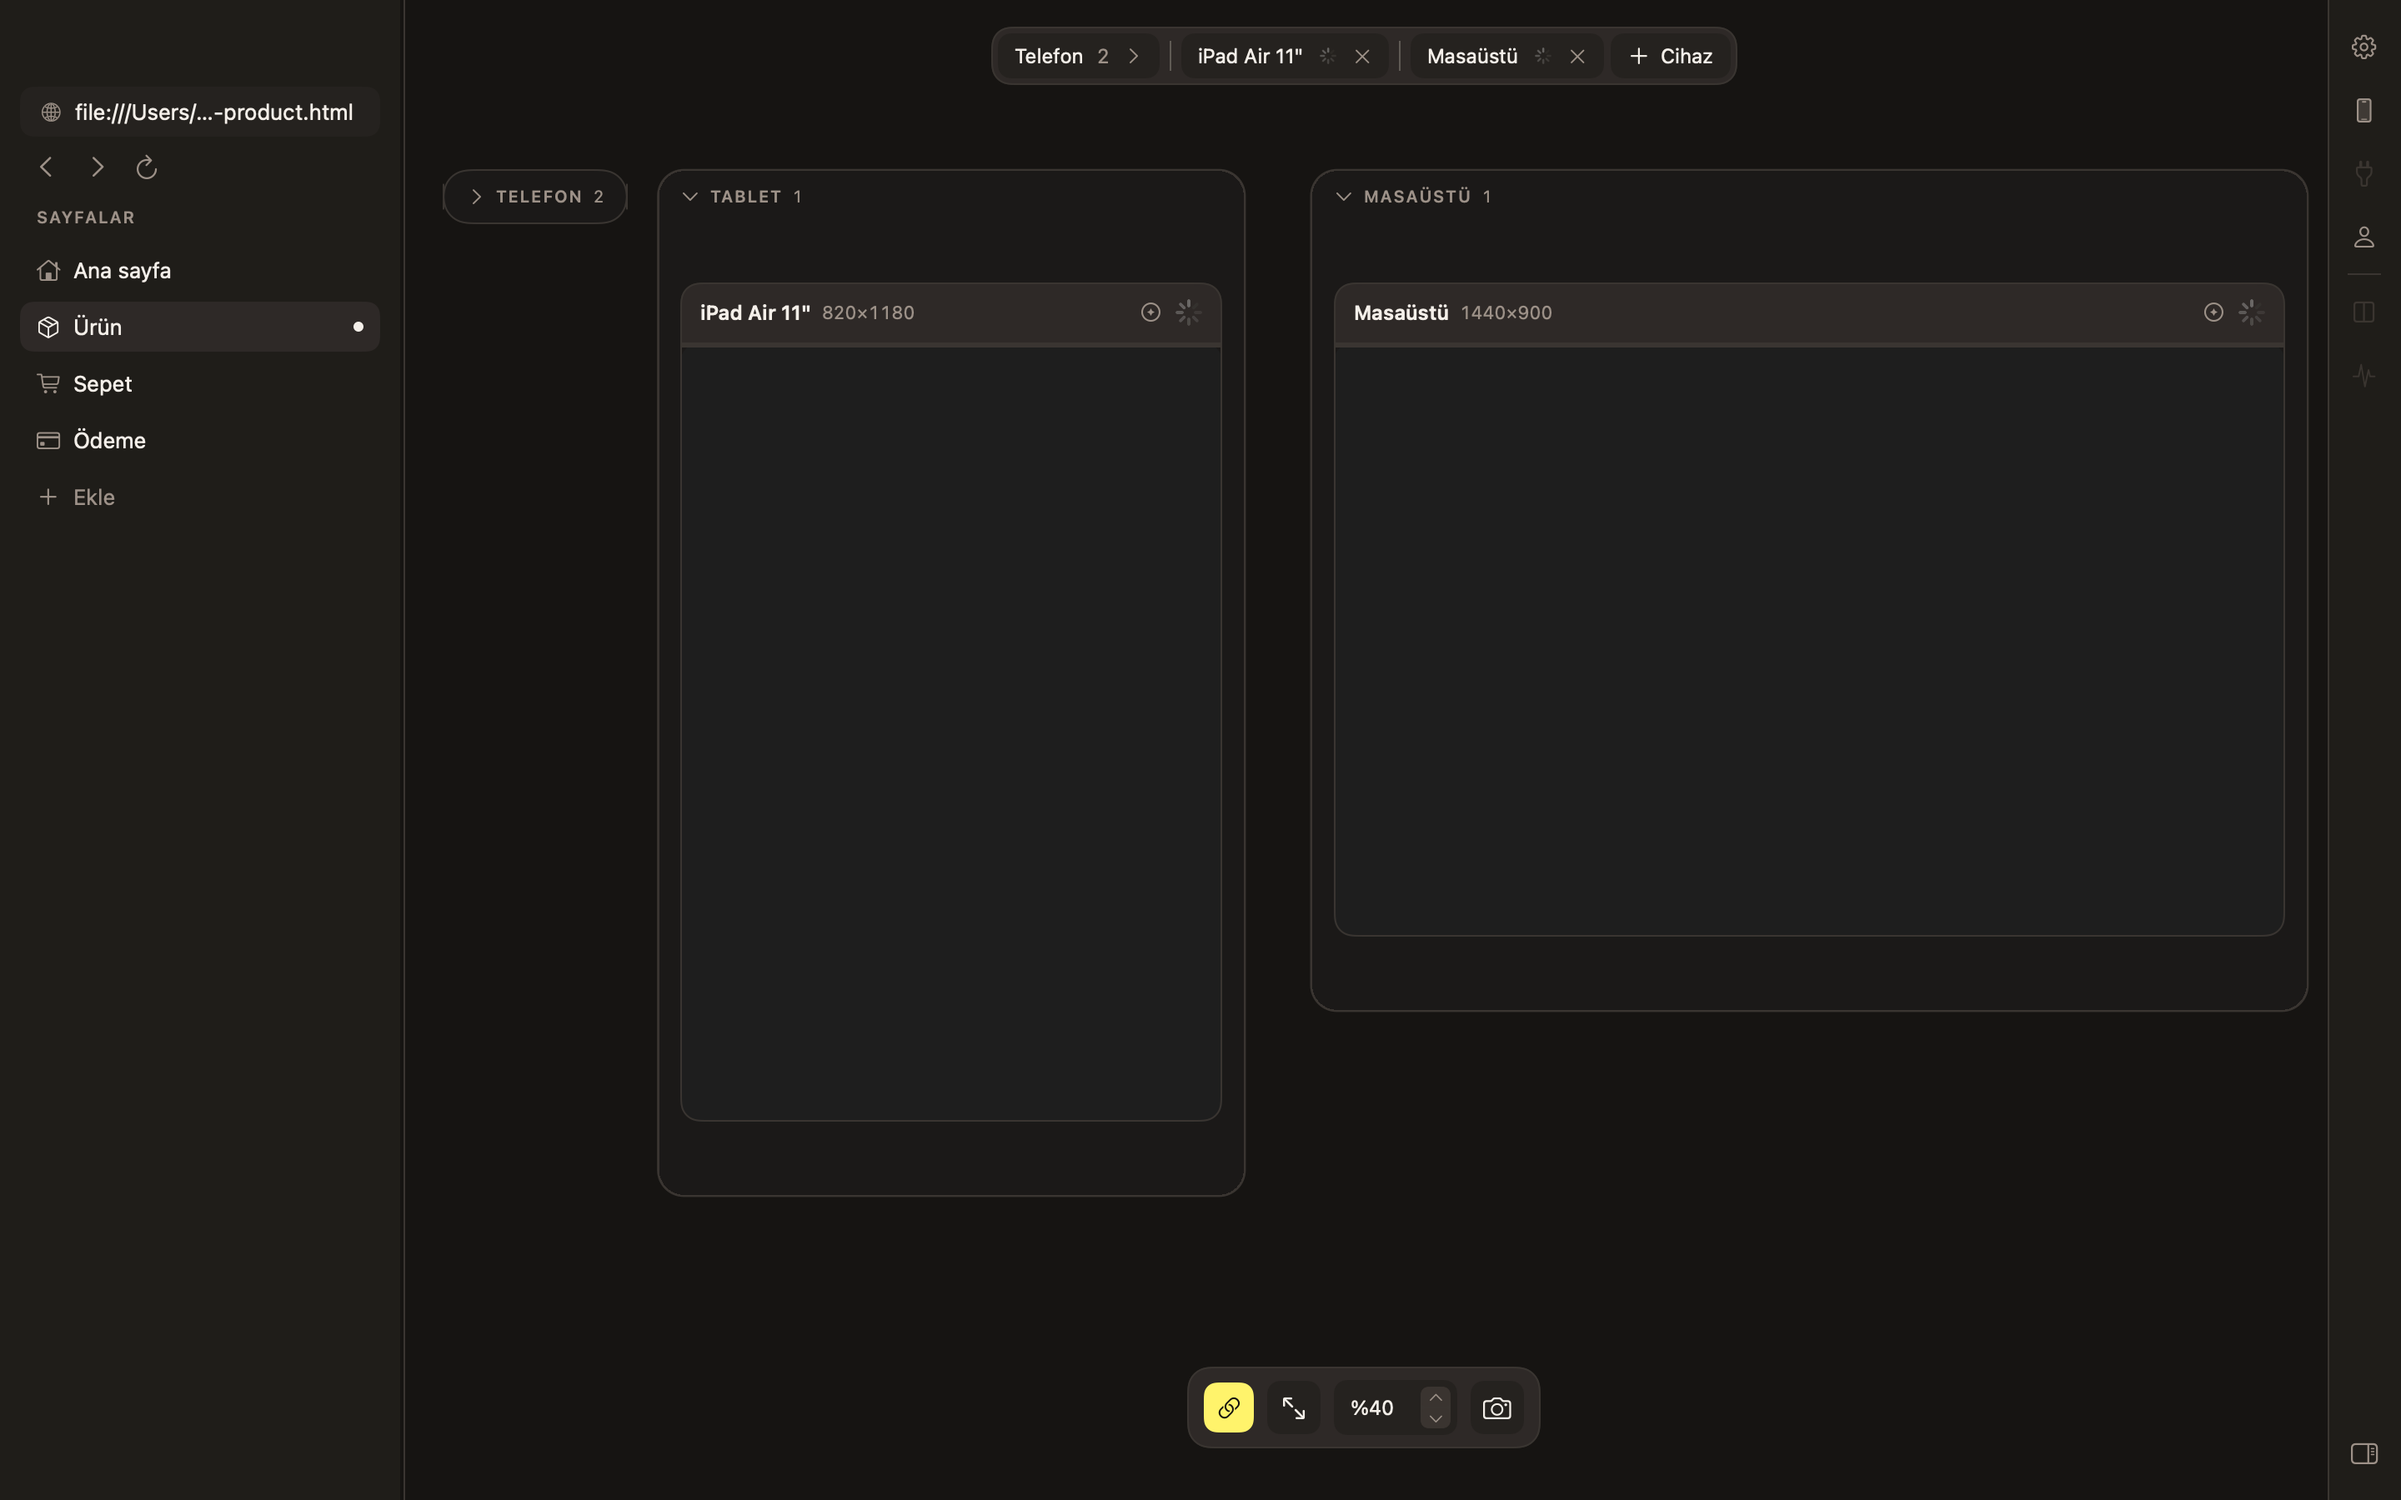
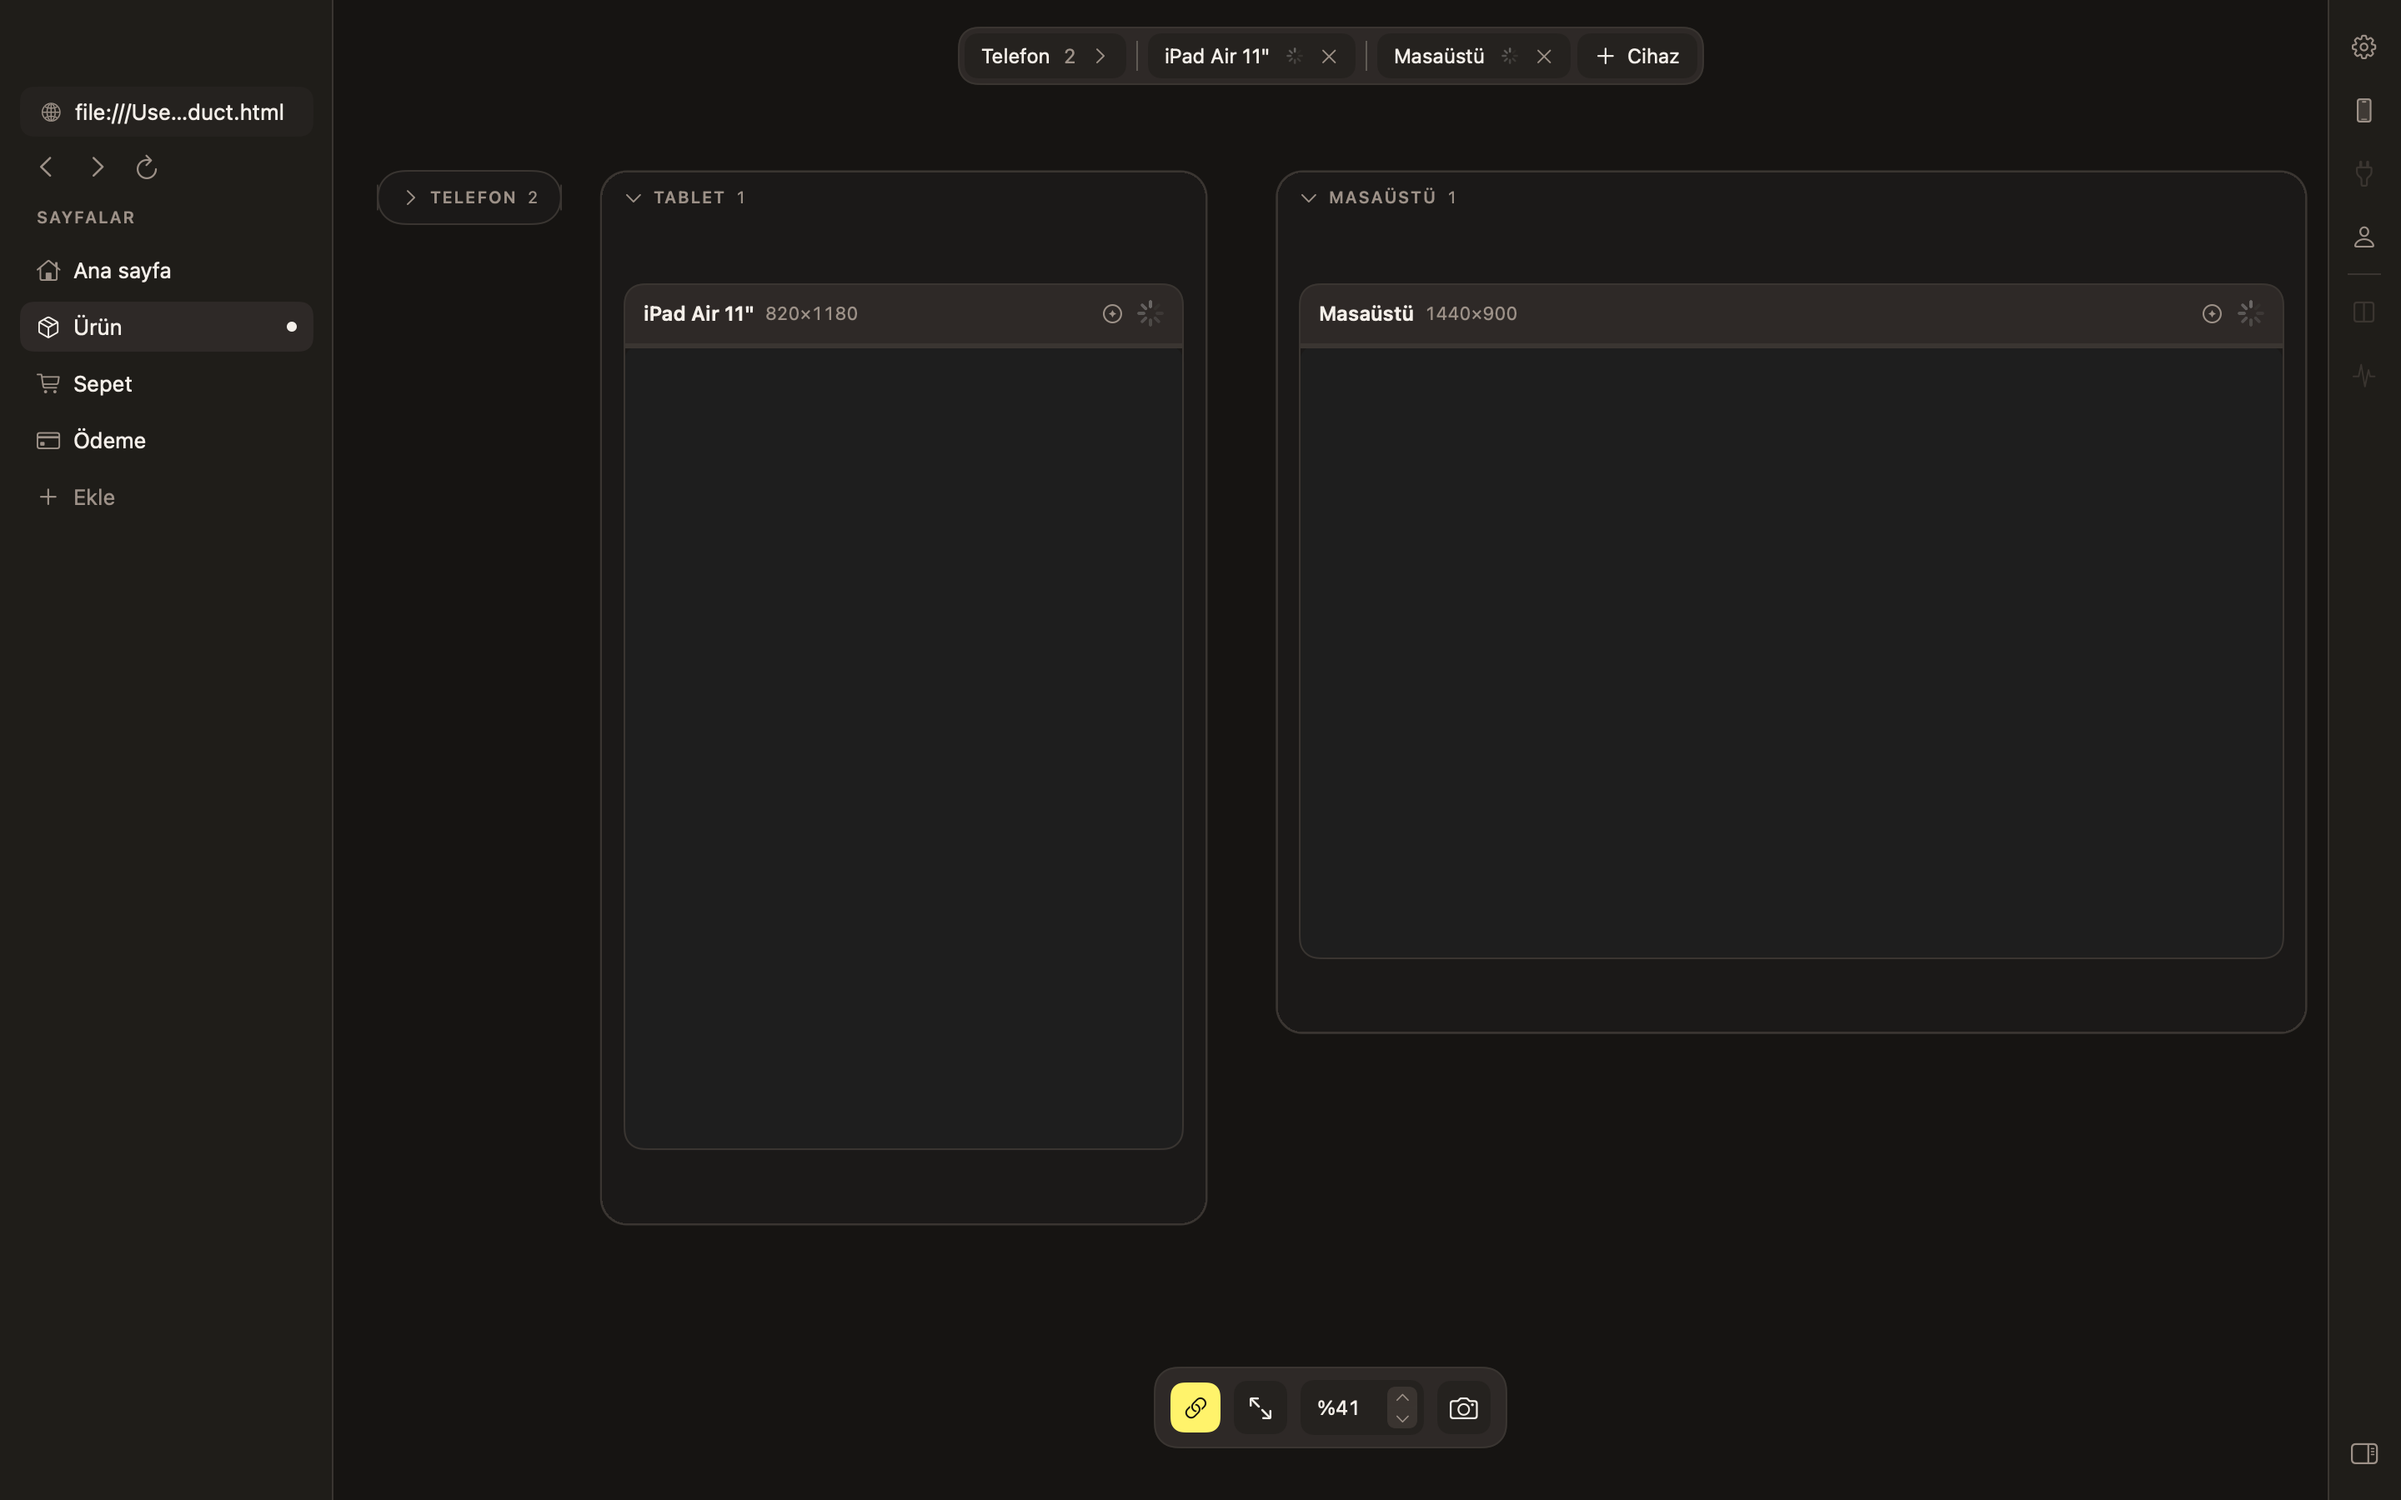
Update parity images, code handoff and session log after live testing

diff --git a/docs/HANDOFF.md b/docs/HANDOFF.md
@@ -1,7 +1,7 @@
 # Kod oturumu — güncel durum
 
 > Bu dosya **üzerine yazılır**; yalnızca kod oturumu yazar. Tarihçe: `docs/oturumlar/`. Tasarım oturumu salt okur.
-> Son güncelleme: 2026-10-16 (ikinci bölüm)
+> Son güncelleme: 2026-10-16 (üçüncü bölüm: canlı test)
 
 ## Şu an neredeyiz
 
@@ -9,8 +9,11 @@
 - **Özel arayüz bitti** (`KOD-OTURUMU-ISLERI.md` §12 adım 1–8): başlık çubuğu gizli pencere; sidebar (adres + SON menüsü, gezinme, sayfa listesi, genişlik tutamacı), kapalıyken kapsül; ray ve tutamacı; cihaz şeridi (sekme durumları, taşma, "+N" menüsü, katlı grup çipi); cihaz seçici; alt çubuk; bildirim kapsülü (tek kapsül kuralı, Geri al); viewport kartı (sabit boyutlu başlık katmanı, lider/seçili, yükleniyor, senkron kaçtı, hover şeridi, kamera seçicisi, sağ tık menüsü, Boyutu düzenle popover'ı); Ayarlar paneli (Genel, Cihazlar kitaplığı, Hesap); giriş ekranı.
 - **§13'ten biten:** sayfa yüklenemedi (ağ, sertifika + "Bu oturumda güven", localhost 2 sn'de bir, adres bulunamadı, "Hepsini dene"), kart sürükleme + Kartları Diz, gruplama (cihaz türü / motor, katlama, grup menüsü), giriş ekranı halleri, sidebar genişlik tutamacı, odak halkası (kendi denetimlerimizde), tam ekranda 16 pt üst satır, bağlantı sürükle-bırak, tek kapsül + Geri al.
 - Etkileşim id'leri: biten / eksik listesi `docs/tasarim-istekleri.md`'de her girdide.
+- **Canlı test yapıldı** (üç tur, `orca computer` + gerçek fare olayları, yerel test sayfaları `Tests/Fixtures` 8 cihazda): bulunan hatalar düzeltildi (b18b5bf, f5d4bd2, 4b96728); ayrıntı ve doğrulanan etkileşimler `docs/tasarim-istekleri.md` "Canlı test düzeltmeleri" 1–3. turlarında. Senkron (tık, yazı, onay kutusu, senkron kapalı), ekran görüntüsü + kapsül, sayfa listesi, şerit taşması, tam ekran, Viewport menüsü canlıda çalışıyor.
+- Viewport menüsü DESIGN.md §3.2.1'e tamamlandı (seçili kartta); ⌫ ve Esc menü kısayolu değil, canvas işliyor (odak sayfada / metin alanındayken değil).
+- Canvas "yapışkan sığdırma": son işlem ⌘1 ise boyut değişince yeniden sığar (`CanvasController.fitted`).
 - Mimari not: kart başlığı ve kenarları canvas'ın üstünde ayrı SwiftUI katmanında (`CardChromeLayer`), konumları `Workspace.cardFrames`'ten; grup alanı zemini belge görünümünde (`GroupAreaView`), kartların altında.
-- Testler: 79 paket testi geçiyor (`swift test --package-path Packages/ViewportixKit`; 4'ü kapalı localhost / bilinmeyen alan adı gibi gerçek WKWebView testleri). Uygulama derleniyor.
+- Testler: 80 paket testi geçiyor (`swift test --package-path Packages/ViewportixKit`; 4'ü kapalı localhost / bilinmeyen alan adı gibi gerçek WKWebView testleri). Uygulama derleniyor.
 - Görüntü almak: `Scripts/snapshots.sh [klasör]` (DEBUG `--snapshots`; ekran dışı pencere, @2x, sRGB; dokunduğu tercihleri geri yükler). WKWebView orada çizilmez ve yüklemesi bitmez. Xcode önizlemesi bu makinede imza yüzünden derlenmiyor.
 
 ## Sıradaki iş
@@ -18,11 +21,11 @@
 1. Tasarım oturumunun yanıtları: `docs/tasarim-istekleri.md` 2026-10-16 girdilerindeki "Tasarım kararı gerekir mi: evet" maddeleri (spec: BottomBar, şablon içerikleri, katalog listesi, Hesap sekmesi, ikincil düğme, eşit aralık rozetleri…) ve iki parite turu (`design/handoff/PARITY.md`).
 2. §13'ten kalan: senkron kurulamıyor (‖ + "Neden?" kapsülü; ajanın sayfaya girip girmediğini motor bildirmeli), eşit aralık rozetleri, Tab sırası (PW-05) gözden geçirme, VoiceOver gözden geçirme.
 3. Kalan pasifler: "Taslakları sakla" ve Taslaklar listesi (taslak saklama), yerinde proje adlandırma (HOME-07), "İçe aktar…", kart küçük resmi (`thumbnail.png`), MCP sekmesi (M7), Farklar/Senkron panelleri (M5).
-4. Elle test (aşağıda).
+4. Canlıda denenmeyenler: bağlantı sürükle-bırak, giriş ekranında son projeler (kaydetme Belgeler'e yazacağı için atlandı), gruplar canlıda yalnız Cihaz Türü, VoiceOver ile gerçek gezinme, Tab sırası.
 
 ## Açık sorular
 
-- **Elle test bekliyor:** alt çubuk menüleri, ▲▼ basılı tutma, yüzde sürükleme; sidebar SON menüsü, yeniden adlandırma, genişlik tutamacı; trafik ışıklarının yeri (sidebar açık/kapalı, pencere boyutu değişince, tam ekrandan çıkınca); şerit taşması ve "+N" menüsü; cihaz seçici; kart sürükleme ve hizalama; gruplar; Ayarlar paneli; bağlantı bırakma; ⌘Z ile kapatılan kartı geri alma; S1 kontrol listesi ve senkron. (`orca computer` ile sürmek odak sorunu yüzünden çalışmamıştı.)
+- **Canlı test aracı:** `orca computer` ile sürmek çalışıyor; koordinatla tık için pencere önde olmalı, kısayollar System Events `key code` ile güvenilir (`keystroke` Türkçe klavyede ⌥ ve , için yanlış karakter gönderiyor). Tasarım kararı bekleyen sorular 3 tur girdisinin sonunda.
 - Şablon içerikleri ve cihaz kataloğu tasarımdan bekleniyor.
 - Hover taklidi CORS'suz başka alan adı stil dosyalarında çalışmıyor; gerçek sitelerde sıklığı ölçülmedi.
 - Dağıtım için Apple Developer Program (şirket hesabı) gerekecek.

diff --git a/docs/oturumlar/2026-10-16.md b/docs/oturumlar/2026-10-16.md
@@ -72,3 +72,34 @@ Görev: `design/KOD-OTURUMU-ISLERI.md` §14, kullanıcının verdiği sırayla (
 - Gruplama (PW-02/03, STRIP-12).
 - Tam ekran üst satırı, bağlantı bırakma (§5.20 b, g).
 - parite: Proje penceresi (ikinci tur).
+
+## Ek: canlı test (kullanıcı "liveda test et hatalar var eksikler var" dedi)
+
+### Kararlar
+- Canlı test `orca computer` + CGEvent fare olaylarıyla, yerel test sayfaları (`python3 -m http.server` → `Tests/Fixtures`) ve 8 cihazlı "Tam matris" ile; gerçek sitelerde zaman aşımları (NSURLError −1001) testleri bozuyordu.
+- Uygulama dili Türkçe bildirildi (`developmentLanguage: tr`): sistem menüleri Türkçe.
+- Viewport menüsü §3.2.1'e tamamlandı; ⌫ ve Esc menü kısayolu yapılmadı (web formlarından ve metin alanlarından tuşu alırdı), canvas'ın olay izleyicisi işliyor.
+- "Yapışkan sığdırma": son işlem ⌘1 ise canvas boyutu değişince yeniden sığdırılır; elle zoom/kaydırma bunu bırakır (tasarıma soruldu).
+- Bütün ipuçları pencere içinde tutulur; herhangi bir basış ipucunu kapatır.
+- Çok küçük kartlarda başlık ve yükleme hatası kartı kısalarak sığar ("motor ve kamera asla gizlenmez" kuralı en dar halde esniyor, tasarıma soruldu).
+
+### Denenen / reddedilen
+- Trafik ışıklarını yalnız pencere bildirimlerinde (boyut, tam ekran, key) yeniden yerleştirmek: AppKit başlık çubuğunu bildirimsiz de diziyor (sayfa değişince ışıklar 16 pt'ye döndü). Reddedildi → düğme ve kabının `frameDidChange` bildirimleri.
+- Şerit genişliğini `onScrollGeometryChange` içerik boyutundan okumak: içerik daralınca güncellenmedi. Reddedildi → sekme satırının kendi `onGeometryChange` ölçüsü.
+- Kart başlık katmanında ZStack: pencereden büyük kart varken ZStack büyüyüp ortalandı, başlıklar kaydı. Reddedildi → `Color.clear.overlay(alignment: .topLeading)`.
+- Yapışkan sığdırmada konum/zoom eşitliği: kayan nokta farkı (−973.80602006711 / …689) yüzünden hiç tetiklenmedi. Reddedildi → ekranda 2 pt tolerans.
+- Sidebar genişlik tutamacının ayırıcı çizgiyi taşıması: `offset(x: 3)` çizgiyi canvas'a kaydırdı, arada sayfa göründü. Reddedildi → çizgi sidebar'ın kendi kaplamasında.
+- Açılışta boş "Adsız" belge: tekrar üretilemedi (4 açılış, kapatıp yeniden açma hep giriş ekranı).
+
+### Kanıt
+- Commit'ler: b18b5bf (1. tur), f5d4bd2 (2. tur), 4b96728 (3. tur); parite görüntüleri yeniden üretildi (11 görüntü değişti).
+- Senkron: 8 WKWebView'da onay kutusu `Value: 1`, e-posta alanı `a@b.co` (AX ağacı); senkron kapalıyken yalnız lider `a@b.cox`.
+- Ekran görüntüsü: `~/Pictures/Viewportix/Viewportix — Keten Gömlek · Marka — 2026-10-16 17.46.49.png` (16000×3008), kapsül "Kaydedildi ve kopyalandı · Finder'da Göster".
+- Sidebar çizgisi: piksel taraması @2x satır 1000, önce 400–403 sayfa beyazı + 404–405 çizgi; sonra 398–399 çizgi, 400'den itibaren canvas.
+- Yapışkan sığdırma: sidebar gizlenince %15 → %17, pencere 1100 pt'ye daralınca %11; elle zoom sonrası boyut değişiminde %13 korunuyor.
+- Paket testleri: 80 geçiyor (b18b5bf); sonraki turlar paket koduna dokunmadı. Uygulama `xcodebuild` ile derleniyor.
+
+### Tasarım istekleri (bugün eklenenler, üçüncü bölüm)
+- Canlı test düzeltmeleri (1. tur): 10 madde; sorular: dar başlıkta motor/kamera, "Görünüm"/"Görüntü".
+- Canlı test düzeltmeleri (2. tur): 9 madde; sorular: "Sidebar'ı Gizle" / "Kenar çubuğunu göster" adı, çok cihazda tek sıra.
+- Canlı test düzeltmeleri (3. tur): yapışkan sığdırma, şerit, Ayarlar erişilebilirliği; sorular: "Özel" cihaz adı, yeni projenin önerilen adı.
